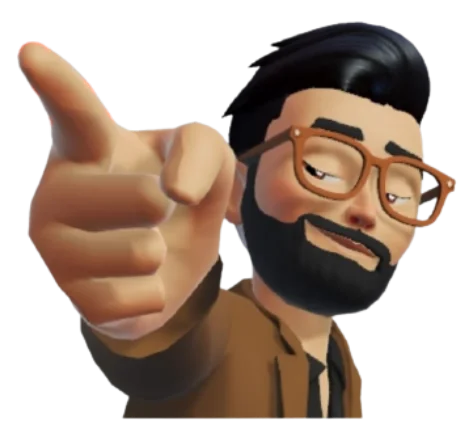
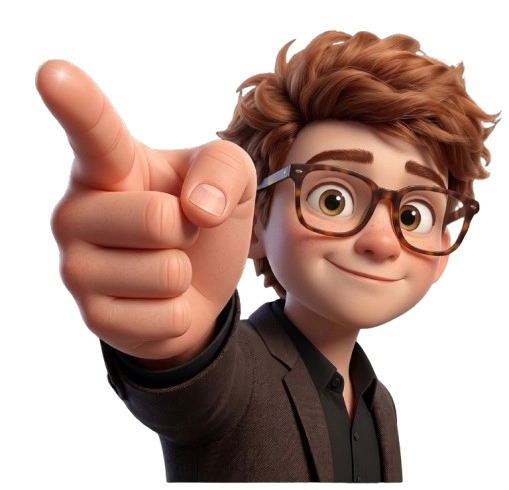
feat: add project data and portfolio assets for skills and hero section

diff --git a/src/assets/lib/data.tsx b/src/assets/lib/data.tsx
@@ -1,18 +1,18 @@
-import adobexdicon from "../../assets/icons/adobexdicon.svg";
-import canvaicon from "../../assets/icons/canvaicon.svg";
-import figmaicon from "../../assets/icons/figmaicon.svg";
-import htmlicon from "../../assets/icons/htmlicon.svg";
-import cssicon from "../../assets/icons/cssicon.svg";
-import javascripticon from "../../assets/icons/javascripticon.svg";
-import typescripticon from "../../assets/icons/typescripticon.svg";
-import reacticon from "../../assets/icons/reacticon.svg";
-import nextjsicon from "../../assets/icons/nextjsicon.svg";
-import nodejsicon from "../../assets/icons/nodejsicon.svg";
-import tailwindcssicon from "../../assets/icons/tailwindicon.svg";
-import mongodbicon from "../../assets/icons/mongoicon.svg";
-import vuejsicon from "../../assets/icons/vueicon.svg";
-import expressicon from "../../assets/icons/expressicon.svg";
-import sassscssicon from "../../assets/icons/sassicon.svg";
+import adobexdicon from "../../assets/icons/adobexdicon.png";
+import canvaicon from "../../assets/icons/canvaicon.png";
+import figmaicon from "../../assets/icons/figmaicon.png";
+import htmlicon from "../../assets/icons/htmlicon.png";
+import cssicon from "../../assets/icons/cssicon.png";
+import javascripticon from "../../assets/icons/javascripticon.png";
+import typescripticon from "../../assets/icons/typescripticon.png";
+import reacticon from "../../assets/icons/reacticon.png";
+import nextjsicon from "../../assets/icons/nextjsicon.png";
+import nodejsicon from "../../assets/icons/nodejsicon.png";
+import tailwindcssicon from "../../assets/icons/tailwindicon.png";
+import mongodbicon from "../../assets/icons/mongoicon.png";
+import vuejsicon from "../../assets/icons/vueicon.png";
+import expressicon from "../../assets/icons/expressicon.png";
+import sassscssicon from "../../assets/icons/sassicon.png";
 import trelloicon from "../../assets/icons/trelloicon.svg";
 import apiicon from "../../assets/icons/apiicon.svg";
 import axiosicon from "../../assets/icons/axiosicon.svg";
@@ -20,9 +20,9 @@ import spotifyicon from "../../assets/icons/spotifyicon.svg";
 import netlifyicon from "../../assets/icons/netlifyicon.svg";
 import rendericon from "../../assets/icons/rendericon.svg";
 import jwticon from "../../assets/icons/jwticon.svg";
-import wordpressicon from "../../assets/icons/wordpressicon.svg";
-import shopifyicon from "../../assets/icons/shopifyicon.svg";
-import webflowicon from "../../assets/icons/webflowicon.svg";
+import wordpressicon from "../../assets/icons/wordpressicon.png";
+import shopifyicon from "../../assets/icons/shopifyicon.png";
+import webflowicon from "../../assets/icons/webflowicon.png";
 import tastyMockup from "../../assets/img/HeroImage1.jpg";
 import instorMockup from "../../assets/img/veduka.png";
 import silentmoonMockup from "../../assets/img/HR-IT.webp";
@@ -30,8 +30,8 @@ import profilepicture from "../img/HeroImage.jpg";
 import caricon from "../../assets/icons/car-icon.svg";
 import travelicon from "../../assets/icons/travel-icon.svg";
 import hardwareicon from "../../assets/icons/hardware-icon.svg";
-import nextjsiconwhite from "../../assets/icons/nextjsiconwhite.svg";
-import expressiconwhite from "../../assets/icons/expressiconwhite.svg";
+import nextjsiconwhite from "../../assets/icons/nextjsicon.png";
+import expressiconwhite from "../../assets/icons/expressicon.png";
 import { GoHome, GoPerson, GoMail, GoStack, GoProject } from "react-icons/go";
 import { FiGithub, FiLink, FiLinkedin, FiMail } from "react-icons/fi";
 import Imprint from "../../components/Imprint";
